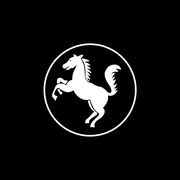
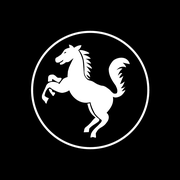
아이콘 로고 70%로 확대 + 홈화면 이름 '삼대오백마'만 표시(title 정리) + 캐시버스트 v8

diff --git a/index.html b/index.html
@@ -6,10 +6,10 @@
 <meta http-equiv="Cache-Control" content="no-cache, no-store, must-revalidate">
 <meta http-equiv="Pragma" content="no-cache">
 <meta http-equiv="Expires" content="0">
-<title>삼대오백마 · 3대 500을 향하여</title>
-<link rel="apple-touch-icon" sizes="180x180" href="apple-touch-icon.png?v=7">
-<link rel="icon" type="image/png" sizes="512x512" href="icon-512.png?v=7">
-<link rel="manifest" href="manifest.json?v=7">
+<title>삼대오백마</title>
+<link rel="apple-touch-icon" sizes="180x180" href="apple-touch-icon.png?v=8">
+<link rel="icon" type="image/png" sizes="512x512" href="icon-512.png?v=8">
+<link rel="manifest" href="manifest.json?v=8">
 <meta name="theme-color" content="#000000">
 <meta name="application-name" content="삼대오백마">
 <meta name="apple-mobile-web-app-capable" content="yes">
@@ -397,7 +397,7 @@ import { getFirestore, collection, addDoc, setDoc, deleteDoc, doc, onSnapshot } 
    - 기기/브라우저 캐시로 옛 화면이 뜨는 문제 방지
    - 배포할 때마다 이 숫자와 version.json 의 v 를 함께 올린다
 ===================================================== */
-const APP_VERSION = "2026.06.06.7";
+const APP_VERSION = "2026.06.06.8";
 (async function 버전확인(){
   try{
     const res = await fetch('version.json?t=' + Date.now(), { cache:'no-store' });
